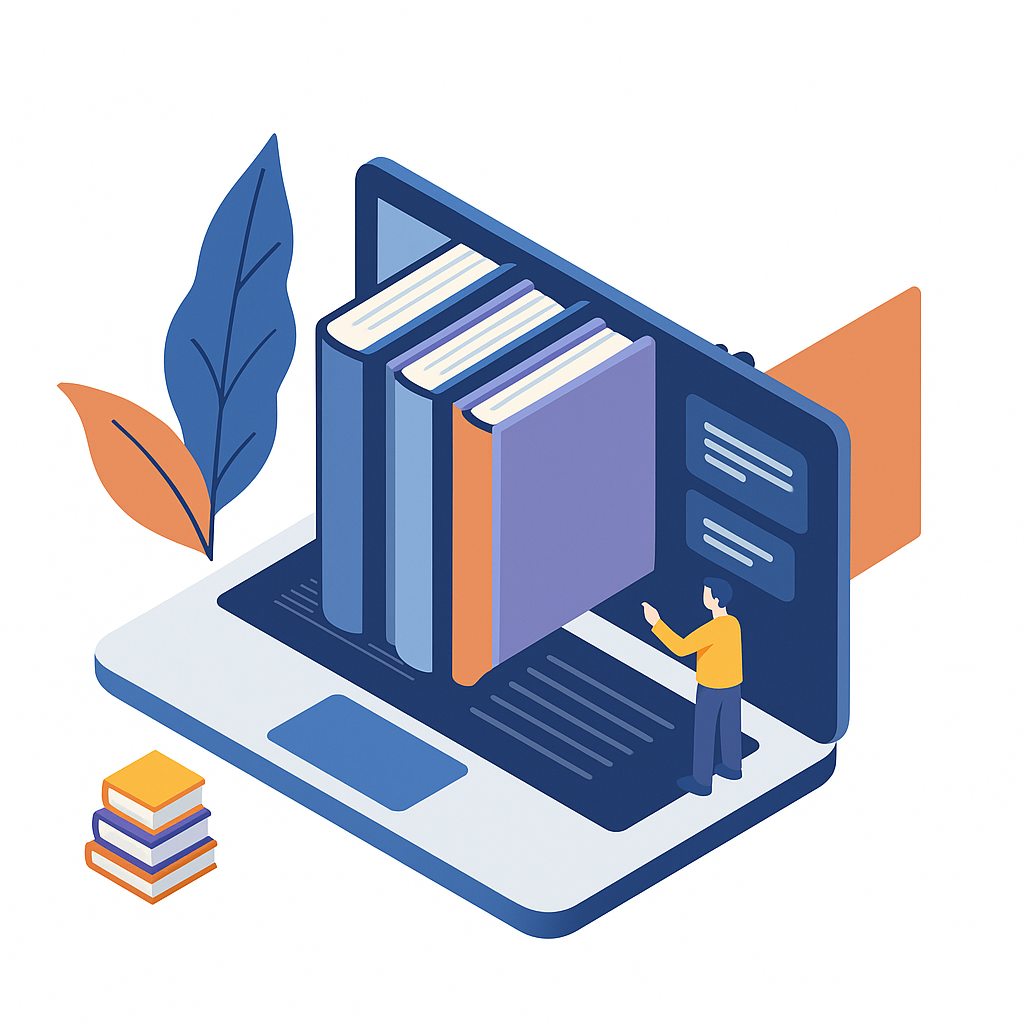
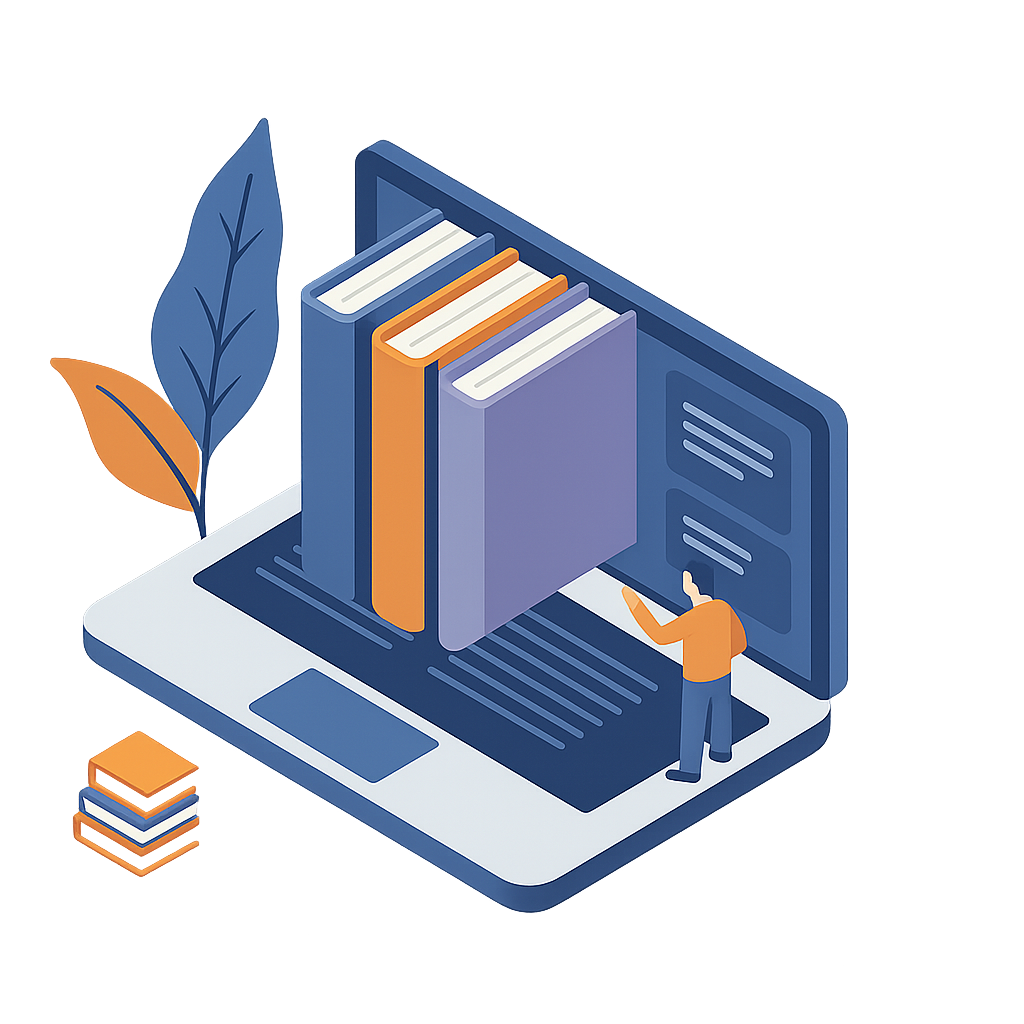
new colors

Changed region(s): [[0.0312, 0.125, 0.9062, 0.9375]]

diff --git a/assets/css/colors.css b/assets/css/colors.css
@@ -1,0 +1,151 @@
+/* === DiScEPT CSS Theme === */
+
+:root {
+  /* Color Palette Variables */
+  --primary: #4a87b5;      /* C75 M40 Y10 */
+  --secondary: #5d96c2;    /* C65 M30 Y5 */
+  --tertiary: #3f709e;     /* C85 M55 Y15 */
+  --accent: #005b78;       /* C100 M55 Y25 K10 */
+  --deep: #2c5d6b;         /* C75 M55 Y25 K10 */
+  --light: #88c4bb;        /* C50 M10 Y30 */
+  --muted: #548b8b;        /* C65 M25 Y30 K10 */
+  --soft: #66a6b3;         /* C65 M25 Y30 */
+
+  --text: #2c2c2c;
+  --background: #ffffff;
+  --background-alt: #f8f9fa;
+}
+
+body {
+  font-family: 'Helvetica Neue', sans-serif;
+  background-color: var(--background);
+  color: var(--text);
+  line-height: 1.6;
+}
+
+/* Header and Navigation */
+header, .navbar {
+  background-color: var(--background);
+  border-bottom: 2px solid var(--light);
+}
+
+.navbar .nav-link {
+  color: var(--deep);
+  font-weight: 500;
+}
+
+.navbar .nav-link:hover,
+.navbar .nav-item.active .nav-link {
+  color: var(--primary);
+}
+
+/* Buttons */
+.btn-primary {
+  background-color: var(--primary);
+  border: none;
+  color: #fff;
+}
+
+.btn-primary:hover {
+  background-color: var(--tertiary);
+}
+
+.btn-secondary {
+  background-color: var(--muted);
+  color: #fff;
+}
+
+/* Titles and Dividers */
+.title-section {
+  color: var(--primary);
+  font-size: 2rem;
+  font-weight: bold;
+}
+
+.divider {
+  width: 60px;
+  height: 4px;
+  background-color: var(--accent);
+  margin: 16px 0;
+}
+
+/* Cards */
+.card-blog, .card-service {
+  background-color: var(--background-alt);
+  border: 1px solid var(--soft);
+  border-radius: 8px;
+  padding: 1.5rem;
+  box-shadow: 0 2px 8px rgba(0, 91, 120, 0.1);
+}
+
+.card-blog .post-title a,
+.card-service h5 {
+  color: var(--deep);
+}
+
+.card-blog .post-date,
+.card-service p {
+  color: var(--muted);
+}
+
+/* Forms */
+input[type="text"],
+input[type="email"],
+textarea,
+select {
+  border: 1px solid var(--soft);
+  border-radius: 4px;
+  padding: 0.5rem;
+  width: 100%;
+  box-sizing: border-box;
+}
+
+input:focus,
+textarea:focus,
+select:focus {
+  border-color: var(--primary);
+  outline: none;
+}
+
+label {
+  font-weight: 600;
+  color: var(--deep);
+}
+
+/* Footer */
+footer.page-footer {
+  background-color: var(--deep);
+  color: #fff;
+  padding: 2rem 0;
+}
+
+footer.page-footer a {
+  color: var(--light);
+}
+
+footer.page-footer a:hover {
+  color: var(--primary);
+}
+
+/* Utilities */
+.bg-primary { background-color: var(--primary); }
+.bg-light { background-color: var(--light); }
+.bg-muted { background-color: var(--muted); }
+.text-primary { color: var(--primary); }
+.text-deep { color: var(--deep); }
+.text-muted { color: var(--muted); }
+
+.shadow-soft {
+  box-shadow: 0 4px 10px rgba(0, 91, 120, 0.2);
+}
+
+/* Pagination */
+.pagination .page-link {
+  color: var(--primary);
+}
+
+.pagination .page-item.active .page-link {
+  background-color: var(--primary);
+  border-color: var(--primary);
+  color: #fff;
+}

diff --git a/html/index.html b/html/index.html
@@ -18,6 +18,8 @@
 
   <link rel="stylesheet" href="../assets/css/theme.css">
 
+  <link rel="stylesheet" href="../assets/css/colors.css">
+
 </head>
 <body>
 
@@ -72,7 +74,7 @@
           </div>
           <div class="col-md-6 py-5 wow zoomIn">
             <div class="img-fluid text-center">
-              <img src="../assets/img/new_banner_image_1.png" alt="" style="width: 400px; height: 400px;">
+              <img src="../assets/img/new_banner_image_1.png" alt="" style="width: 500px; height: 500px;">
             </div>
           </div>
         </div>
@@ -87,7 +89,7 @@
         <div class="col-lg-4">
           <div class="card-service wow fadeInUp">
             <div class="header">
-              <img src="../assets/img/services/new_service_1.png" alt="" style="width: 75px; height: 75px;">
+              <img src="../assets/img/services/new_service_1.png" alt="" style="width: 90px; height: 60px;">
             </div>
             <div class="body">
               <h5 class="text-secondary">Orizzonte</h5>
@@ -111,7 +113,7 @@
         <div class="col-lg-4">
           <div class="card-service wow fadeInUp">
             <div class="header">
-              <img src="../assets/img/services/new_service_3.png" alt="" style="width: 75px; height: 75px;">
+              <img src="../assets/img/services/new_service_3.png" alt="" style="width: 80px; height: 80px;">
             </div>
             <div class="body">
               <h5 class="text-secondary">Strumenti</h5>

diff --git a/html/about.html b/html/about.html
@@ -17,6 +17,8 @@
   <link rel="stylesheet" href="../assets/vendor/animate/animate.css">
 
   <link rel="stylesheet" href="../assets/css/theme.css">
+
+  <link rel="stylesheet" href="../assets/css/colors.css">
 </head>
 <body>
   

diff --git a/html/contact.html b/html/contact.html
@@ -17,6 +17,8 @@
   <link rel="stylesheet" href="../assets/vendor/animate/animate.css">
 
   <link rel="stylesheet" href="../assets/css/theme.css">
+
+  <link rel="stylesheet" href="../assets/css/colors.css">
 </head>
 <body>
   

diff --git a/html/documentation.html b/html/documentation.html
@@ -17,6 +17,8 @@
   <link rel="stylesheet" href="../assets/vendor/animate/animate.css">
 
   <link rel="stylesheet" href="../assets/css/theme.css">
+
+  <link rel="stylesheet" href="../assets/css/colors.css">
 </head>
 <body>
   

diff --git a/html/blog.html b/html/blog.html
@@ -17,6 +17,8 @@
   <link rel="stylesheet" href="../assets/vendor/animate/animate.css">
 
   <link rel="stylesheet" href="../assets/css/theme.css">
+
+  <link rel="stylesheet" href="../assets/css/colors.css">
 </head>
 <body>
 

diff --git a/html/blog_1-details.html b/html/blog_1-details.html
@@ -17,6 +17,8 @@
   <link rel="stylesheet" href="../assets/vendor/animate/animate.css">
 
   <link rel="stylesheet" href="../assets/css/theme.css">
+
+  <link rel="stylesheet" href="../assets/css/colors.css">
 </head>
 <body>
 

diff --git a/html/blog_2-details.html b/html/blog_2-details.html
@@ -17,6 +17,8 @@
   <link rel="stylesheet" href="../assets/vendor/animate/animate.css">
 
   <link rel="stylesheet" href="../assets/css/theme.css">
+
+  <link rel="stylesheet" href="../assets/css/colors.css">
 </head>
 <body>
 

diff --git a/html/blog_3-details.html b/html/blog_3-details.html
@@ -17,6 +17,8 @@
   <link rel="stylesheet" href="../assets/vendor/animate/animate.css">
 
   <link rel="stylesheet" href="../assets/css/theme.css">
+
+  <link rel="stylesheet" href="../assets/css/colors.css">
 </head>
 <body>
 

diff --git a/html/blog_4-details.html b/html/blog_4-details.html
@@ -17,6 +17,8 @@
   <link rel="stylesheet" href="../assets/vendor/animate/animate.css">
 
   <link rel="stylesheet" href="../assets/css/theme.css">
+
+  <link rel="stylesheet" href="../assets/css/colors.css">
 </head>
 <body>
 

diff --git a/html/service.html b/html/service.html
@@ -17,6 +17,8 @@
   <link rel="stylesheet" href="../assets/vendor/animate/animate.css">
 
   <link rel="stylesheet" href="../assets/css/theme.css">
+
+  <link rel="stylesheet" href="../assets/css/colors.css">
 </head>
 <body>
 
